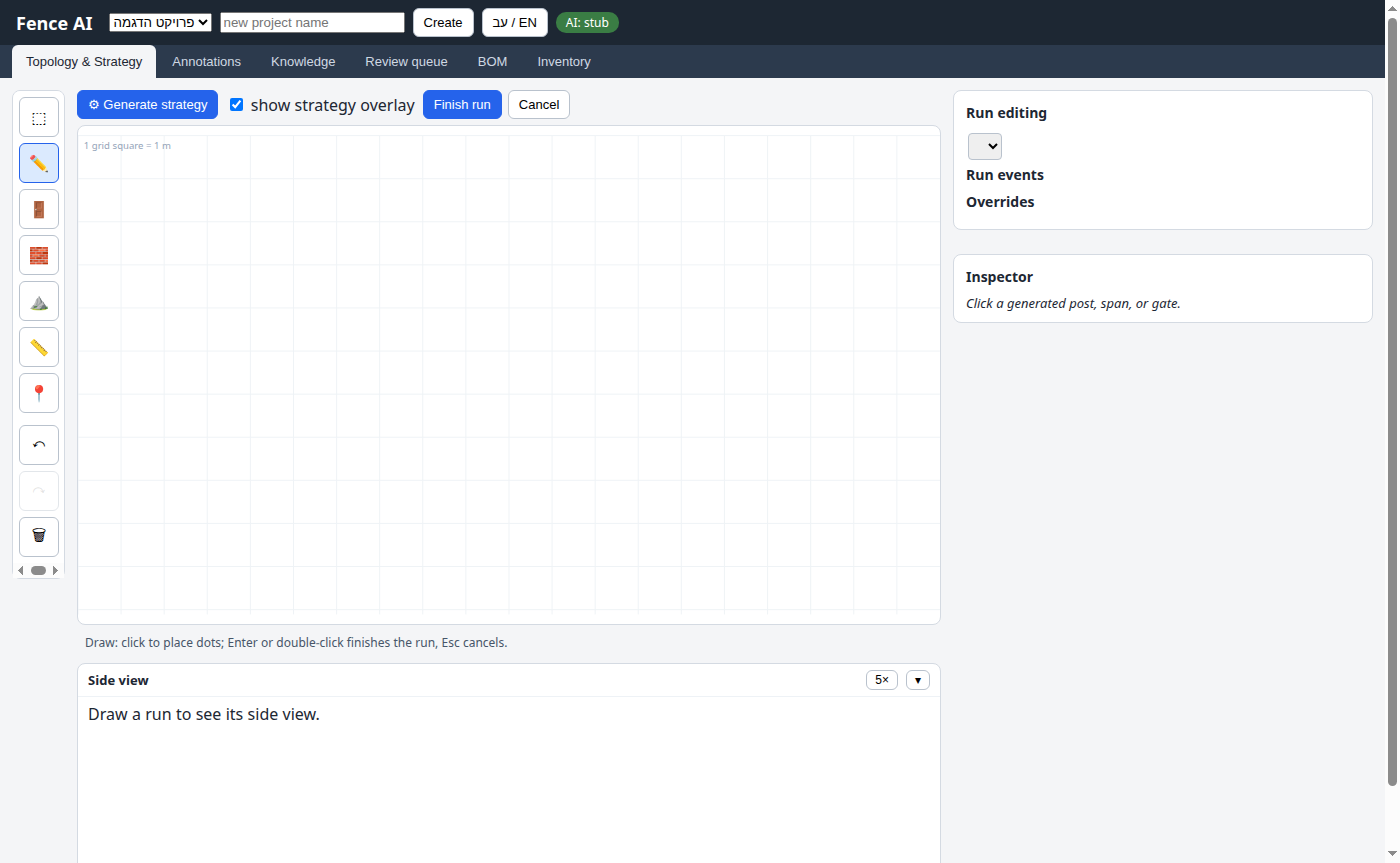
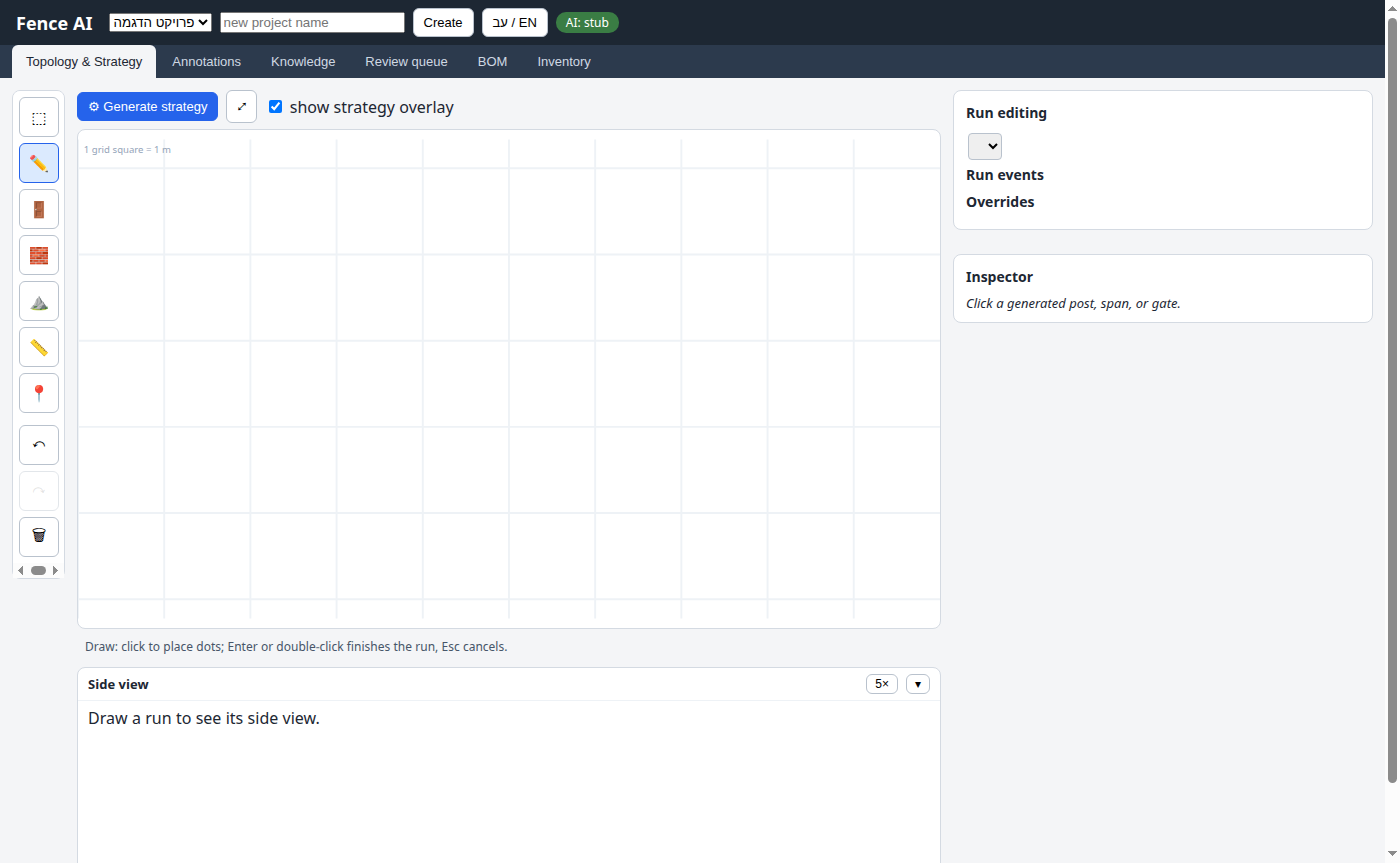
feat(web): canvas zoom, pan and fit-view
Wheel zoom anchored at the cursor (0.25x-6x), middle-button or Ctrl-drag pan
computed in screen space (no viewBox feedback), fit-view button framing the
topology, grid aligned to world meters and re-rendered per view (5 m spacing
when zoomed far out). Smoke checks for zoom/fit/grid. 202 pytest + 24/24 smoke.

Changed region(s): [[0.0614, 0.7231, 0.3686, 0.8436], [0.0614, 0.0904, 0.3993, 0.1808], [0.6143, 0.7532, 0.6757, 0.8134]]

diff --git a/src/fenceai/web/static/js/editor.js b/src/fenceai/web/static/js/editor.js
@@ -51,6 +51,7 @@ function setupToolbar() {
     if (btn) btn.addEventListener("click", () => { setTool(tool); updateStatus(); });
   }
   document.getElementById("btn-generate").addEventListener("click", generateStrategy);
+  document.getElementById("btn-fit").addEventListener("click", fitView);
   document.getElementById("chk-overlay").addEventListener("change", renderOverlay);
   document.getElementById("btn-clear").addEventListener("click", clearTopology);
   updateToolButtons();
@@ -128,7 +129,19 @@ function setupCanvas() {
 
   svg.addEventListener("dblclick", (ev) => { ev.preventDefault(); finishDraft(); });
 
+  svg.addEventListener("wheel", (ev) => {
+    ev.preventDefault();
+    zoomAt(ev, ev.deltaY > 0 ? 1.15 : 1 / 1.15);
+  }, { passive: false });
+
   svg.addEventListener("pointerdown", (ev) => {
+    // pan: middle button, or Ctrl/Cmd + primary (never conflicts with editing)
+    if (ev.button === 1 || (ev.button === 0 && (ev.ctrlKey || ev.metaKey))) {
+      ev.preventDefault();
+      pan = { screen: [ev.clientX, ev.clientY], view: { ...viewBox } };
+      svg.setPointerCapture(ev.pointerId);
+      return;
+    }
     if (state.tool !== "select" || !state.project) return;
     const target = ev.target;
     if (target.classList.contains("handle")) {
@@ -141,9 +154,26 @@ function setupCanvas() {
       svg.setPointerCapture(ev.pointerId);
     }
   });
-  svg.addEventListener("pointermove", onPointerMove);
-  svg.addEventListener("pointerup", onDragEnd);
-  svg.addEventListener("pointercancel", onDragEnd);
+  svg.addEventListener("pointermove", (ev) => {
+    if (pan) {
+      // delta in SCREEN pixels scaled by the pan-start view: immune to the
+      // feedback of viewBox changing mid-gesture
+      const svgEl = document.getElementById("canvas");
+      viewBox.x = pan.view.x - (ev.clientX - pan.screen[0]) * (pan.view.w / svgEl.clientWidth);
+      viewBox.y = pan.view.y - (ev.clientY - pan.screen[1]) * (pan.view.h / svgEl.clientHeight);
+      applyViewBox();
+      return;
+    }
+    onPointerMove(ev);
+  });
+  svg.addEventListener("pointerup", (ev) => {
+    if (pan) { pan = null; suppressClick = true; setTimeout(() => { suppressClick = false; }, 0); return; }
+    onDragEnd(ev);
+  });
+  svg.addEventListener("pointercancel", (ev) => {
+    if (pan) { pan = null; return; }
+    onDragEnd(ev);
+  });
 
   document.addEventListener("keydown", (ev) => {
     const tag = ev.target && ev.target.tagName;
@@ -494,13 +524,69 @@ function updateDraftButtons() {
 // ---------- rendering ----------
 function renderGrid() {
   const g = clearGroup("g-grid");
-  const step = 1000 * 0.045; // 1 m in px
-  for (let x = 0; x < 900; x += step)
-    el("line", { x1: x, y1: 0, x2: x, y2: 500, stroke: "#eef2f6" }, g);
-  for (let y = 0; y < 500; y += step)
-    el("line", { x1: 0, y1: y, x2: 900, y2: y, stroke: "#eef2f6" }, g);
-  el("text", { x: 6, y: 14, "font-size": 10, fill: "#94a3b8", class: "grid-note" }, g)
-    .textContent = t("canvas.grid_note");
+  // 1 m grid aligned to world coordinates, covering the current viewBox
+  // (5 m spacing when zoomed far out so the grid never becomes a moiré)
+  let step = 1000 * 0.045;
+  if (viewBox.w > 2700) step *= 5;
+  const x0 = Math.floor(viewBox.x / step) * step;
+  const y0 = Math.floor(viewBox.y / step) * step;
+  for (let x = x0; x < viewBox.x + viewBox.w; x += step)
+    el("line", { x1: x, y1: viewBox.y, x2: x, y2: viewBox.y + viewBox.h, stroke: "#eef2f6" }, g);
+  for (let y = y0; y < viewBox.y + viewBox.h; y += step)
+    el("line", { x1: viewBox.x, y1: y, x2: viewBox.x + viewBox.w, y2: y, stroke: "#eef2f6" }, g);
+  const scale = viewBox.w / 900;
+  el("text", { x: viewBox.x + 6 * scale, y: viewBox.y + 14 * scale,
+    "font-size": 10 * scale, fill: "#94a3b8", class: "grid-note" }, g)
+    .textContent = viewBox.w > 2700 ? t("canvas.grid_note_5m") : t("canvas.grid_note");
+}
+
+// ---------- zoom & pan (viewBox only; world<->viewBox mapping is unchanged) ----
+const DEFAULT_VIEW = { x: 0, y: 0, w: 900, h: 500 };
+let viewBox = { ...DEFAULT_VIEW };
+let pan = null; // active pan session
+
+function applyViewBox() {
+  document.getElementById("canvas")
+    .setAttribute("viewBox", `${viewBox.x} ${viewBox.y} ${viewBox.w} ${viewBox.h}`);
+  renderGrid();
+}
+
+function svgViewPoint(ev) {
+  const svg = document.getElementById("canvas");
+  const pt = svg.createSVGPoint();
+  pt.x = ev.clientX; pt.y = ev.clientY;
+  const { x, y } = pt.matrixTransform(svg.getScreenCTM().inverse());
+  return [x, y];
+}
+
+function zoomAt(ev, factor) {
+  const [cx, cy] = svgViewPoint(ev);
+  const w = Math.max(225, Math.min(viewBox.w * factor, 5400)); // 0.25x .. 6x
+  const scale = w / viewBox.w;
+  viewBox = {
+    x: cx - (cx - viewBox.x) * scale,
+    y: cy - (cy - viewBox.y) * scale,
+    w, h: viewBox.h * scale,
+  };
+  applyViewBox();
+}
+
+function fitView() {
+  const pts = [];
+  for (const n of state.project?.topology.nodes || []) pts.push(toPx([n.x_mm, n.y_mm]));
+  for (const r of state.project?.topology.runs || [])
+    for (const v of r.interior_vertices || []) pts.push(toPx(v));
+  if (!pts.length) { viewBox = { ...DEFAULT_VIEW }; applyViewBox(); return; }
+  const xs = pts.map((p) => p[0]), ys = pts.map((p) => p[1]);
+  const pad = 60;
+  let x = Math.min(...xs) - pad, y = Math.min(...ys) - pad;
+  let w = Math.max(...xs) - x + pad * 2, h = Math.max(...ys) - y + pad * 2;
+  // preserve the 900:500 aspect so nothing distorts
+  if (w / h > 900 / 500) { const nh = w * 500 / 900; y -= (nh - h) / 2; h = nh; }
+  else { const nw = h * 900 / 500; x -= (nw - w) / 2; w = nw; }
+  if (w < 450) { const nw = 450, nh = 250; x -= (nw - w) / 2; y -= (nh - h) / 2; w = nw; h = nh; }
+  viewBox = { x, y, w, h };
+  applyViewBox();
 }
 
 function renderTopology() {

diff --git a/src/fenceai/web/static/index.html b/src/fenceai/web/static/index.html
@@ -47,6 +47,7 @@
         <div class="canvas-col">
           <div class="toolbar">
             <button id="btn-generate" class="primary" data-i18n="editor.generate">⚙ Generate strategy</button>
+            <button id="btn-fit" data-i18n-title="editor.fit" title="Fit view">⤢</button>
             <label><input type="checkbox" id="chk-overlay" checked> <span data-i18n="editor.show_overlay">show strategy overlay</span></label>
             <div id="draft-actions" style="display:none">
               <button id="btn-finish-draft" class="primary" data-i18n="editor.finish_run">Finish run</button>

diff --git a/tools/ui_smoke.py b/tools/ui_smoke.py
@@ -213,6 +213,22 @@ fetch(`/api/projects/${document.getElementById('project-select').value}`)
         check("profile renders generated panels/posts", (profile_drawn or 0) > 0)
         check("profile renders the ground line", (profile_ground or 0) > 0)
 
+        # --- zoom / pan / fit --------------------------------------------------
+        vb0 = c.js("document.getElementById('canvas').getAttribute('viewBox')")
+        cx, cy = c.canvas_px(3000, 0)
+        c.cmd("Input.dispatchMouseEvent", type="mouseWheel", x=cx, y=cy,
+              deltaX=0, deltaY=-240)
+        time.sleep(0.4)
+        vb1 = c.js("document.getElementById('canvas').getAttribute('viewBox')")
+        check("wheel zooms the canvas viewBox", vb1 != vb0 and bool(vb1))
+        c.click(*c.element_center("#btn-fit"))
+        time.sleep(0.4)
+        vb2 = c.js("document.getElementById('canvas').getAttribute('viewBox')")
+        check("fit view reframes the topology", vb2 != vb1 and bool(vb2))
+        # grid still covers the view after zoom/fit
+        check("grid re-renders for the new view",
+              c.js("document.querySelectorAll('#g-grid line').length") > 5)
+
         # --- rule impact preview (knowledge tab) ------------------------------
         c.js("document.querySelector('#tabs button[data-tab=\"knowledge\"]').click(); 'ok'")
         time.sleep(0.5)

diff --git a/docs/v1-known-limitations.md b/docs/v1-known-limitations.md
@@ -53,7 +53,7 @@ Deliberate deferrals and honest weaknesses, with the trigger that should revisit
   is audit-logged, but a quoted BOM document is not persisted. Trigger: real quoting
   workflow (persist `(run_id, inventory_hash) → bom` append-only).
 - **The UI is pragmatic** (mission §13). UI v2 added direct canvas manipulation,
-  undo/redo, the elevation side view, and Hebrew-first RTL; still missing: canvas
-  zoom/pan (auto-fit viewBox only), touch-optimized gestures beyond big targets,
+  undo/redo, the elevation side view, and Hebrew-first RTL; still missing: touch-optimized gestures beyond big targets,
   and interior-vertex drawing in one stroke (corners are made by chaining runs or
-  inserting via midpoint handles).
+  inserting via midpoint handles). Zoom/pan/fit added 2026-08-10 (wheel zoom,
+  middle/Ctrl-drag pan, ⤢ fit).

diff --git a/plan/current-status.md b/plan/current-status.md
@@ -35,3 +35,8 @@ Verified: 174 pytest + 14/14 tools/ui_smoke.py checks + inspected screenshots.
 "This change would affect N of your projects" before approving/saving knowledge —
 Research D's highest-value review feature. learning/impact.py (pure regenerate-and-diff),
 2 API endpoints, UI in review queue + knowledge editor (he/en). 202 pytest + 21/21 smoke.
+
+## Canvas zoom/pan/fit (2026-08-10) — COMPLETE
+Wheel zoom anchored at cursor (0.25x-6x), middle/Ctrl-drag pan (screen-space math),
+fit-view button, world-aligned grid re-rendered per view (5 m spacing when zoomed out).
+202 pytest + 24/24 smoke.
